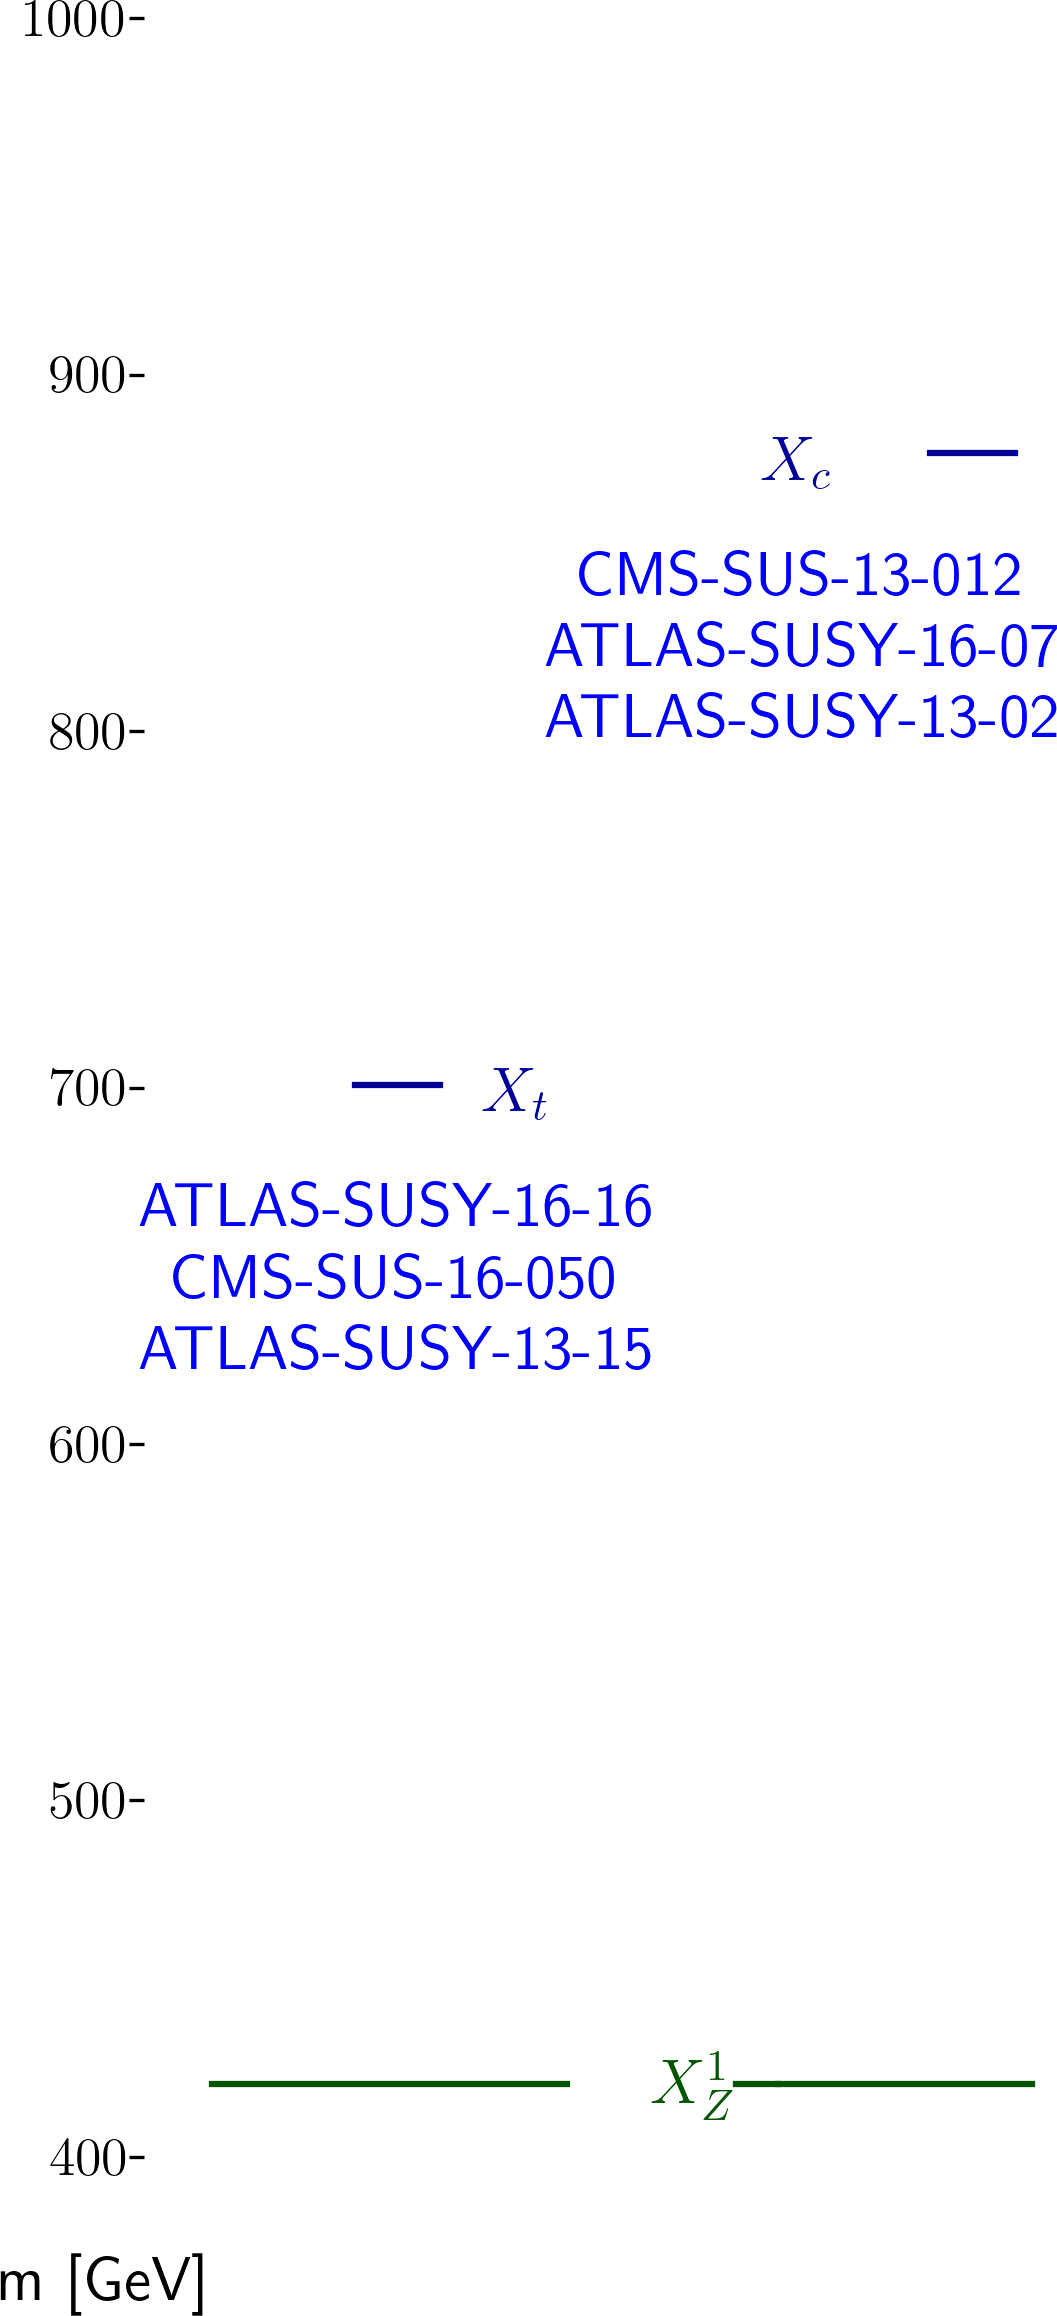
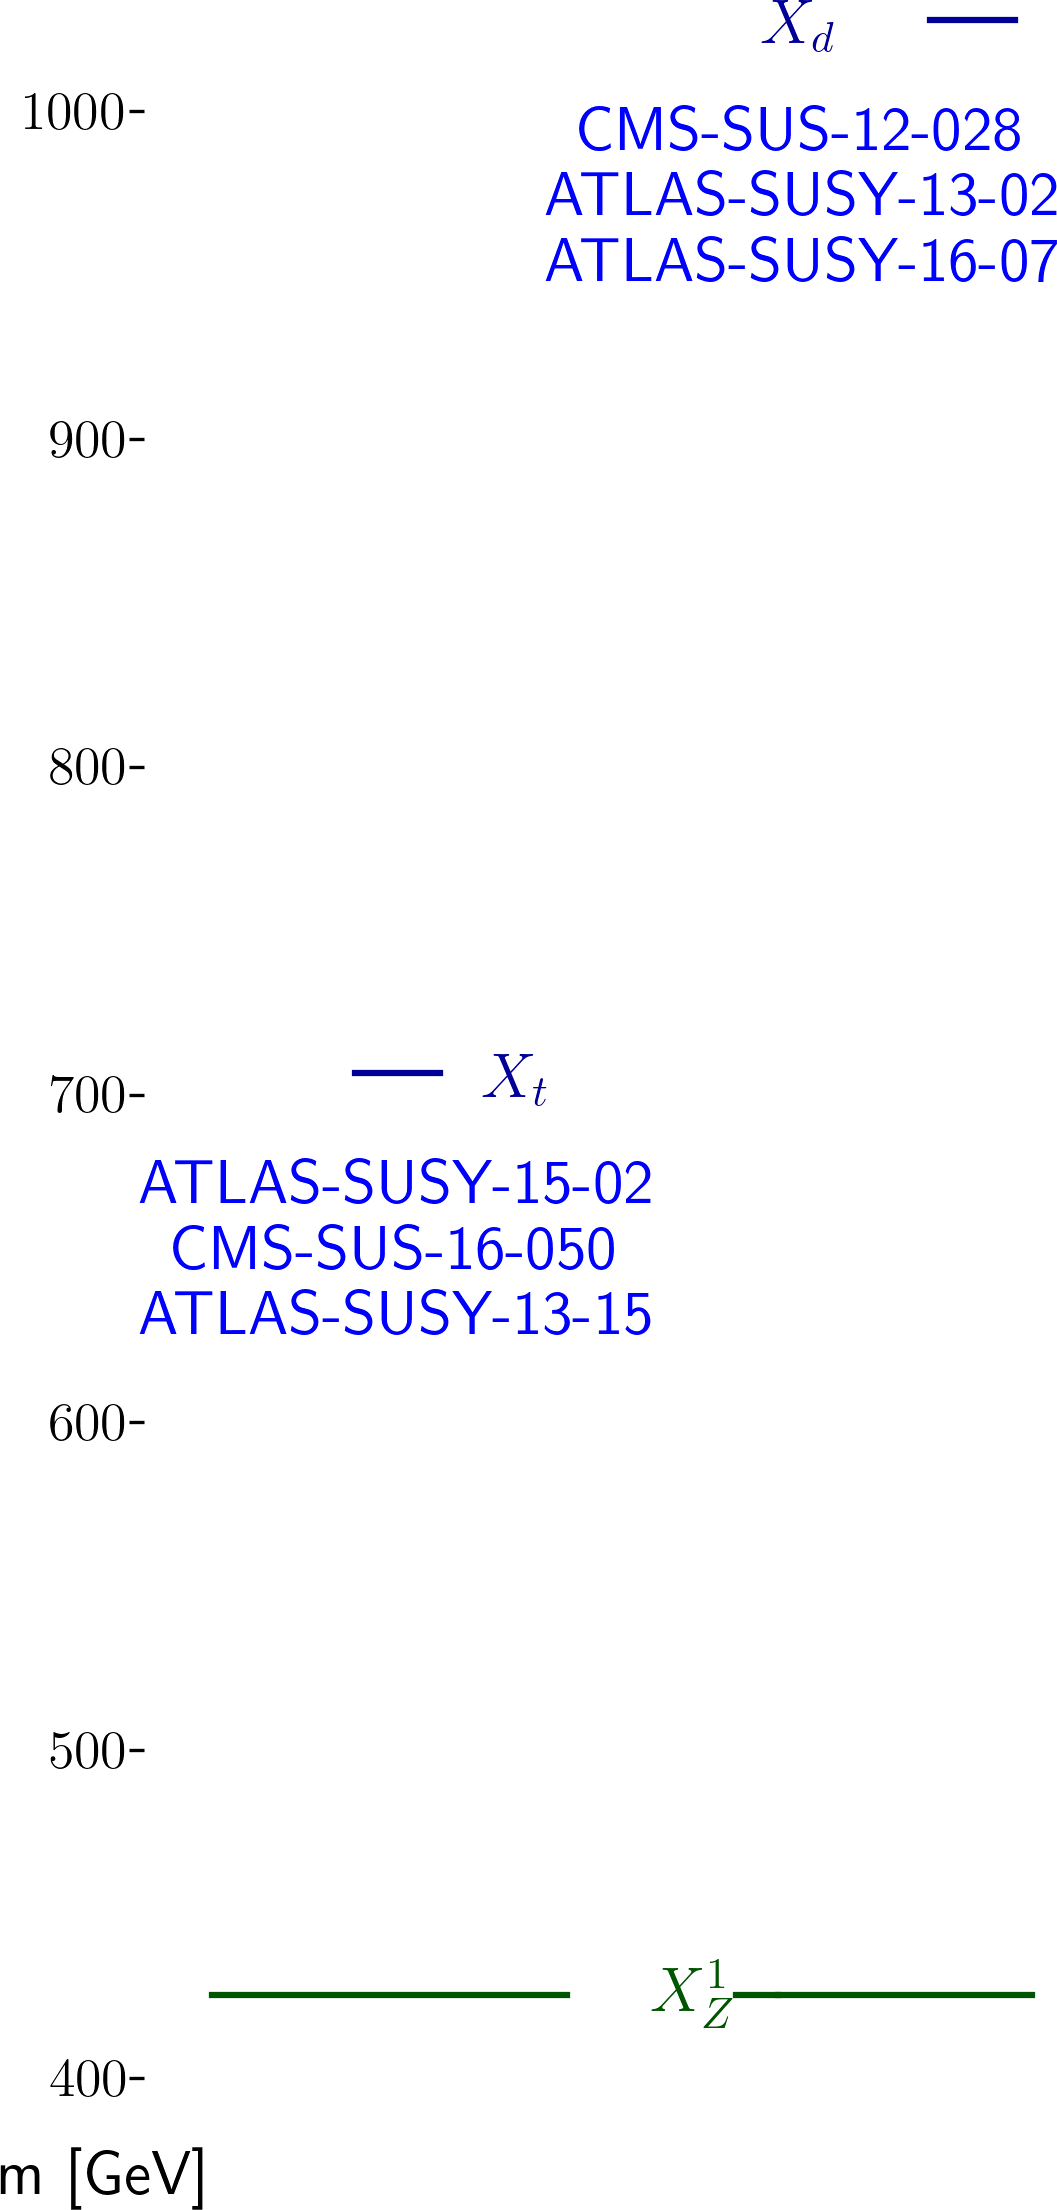
automated update by plotHiscore.py

diff --git a/protomodels/latest/index.html b/protomodels/latest/index.html
@@ -1,29 +1,31 @@
 <html>
 <body>
 <center>
-<table><td><h1>Current best protomodel: K=6.31</h1><td><img height=60px src=https://smodels.github.io/pics/banner.png></table>
+<table><td><h1>Current best protomodel: K=5.95</h1><td><img height=60px src=https://smodels.github.io/pics/banner.png></table>
 </center>
-<b><a href=./hiscore.slha>ProtoModel</a> <a href=./pmodel.py>(dict)</a> produced with <a href=https://smodels.github.io/docs/Validation124>database v1.2.4</a>, combination strategy <a href=./matrix_aggressive.png>aggressive</a> in walker 48 step 231.</b> K plots for: <a href=./M1000022.png?7428839>X<sub>Z</sub><sup>1</sup></a>, <a href=./M1000006.png?7428839>X<sub>t</sub></a>. HPD plots for: <a href=./llhd1000006.png?7428839>X<sub>t</sub></a>. SSM plots for: <a href=./ssm_-1000006_1000006.png?7428839>(x&#772;<sub>t</sub>,X<sub>t</sub>)</a><br>
+<b><a href=./hiscore.slha>ProtoModel</a> <a href=./pmodel.py>(dict)</a> produced with <a href=https://smodels.github.io/docs/Validation124>database v1.2.4</a>, combination strategy <a href=./matrix_aggressive.png>aggressive</a> in walker 38 step 507.</b> K plots for: <a href=./M1000022.png?7428845>X<sub>Z</sub><sup>1</sup></a>, <a href=./M1000001.png?7428845>X<sub>d</sub></a>, <a href=./M1000006.png?7428845>X<sub>t</sub></a>. HPD plots for: <a href=./llhd1000001.png?7428845>X<sub>d</sub></a>, <a href=./llhd1000006.png?7428845>X<sub>t</sub></a>. SSM plots for: <a href=./ssm_-1000006_1000006.png?7428845>(x&#772;<sub>t</sub>,X<sub>t</sub>)</a><br>
 <table width=80%>
 <tr><td>
-<br><b>34 predictions available. Highest r values are:</b><br><ul>
-<li><a href=http://cms-results.web.cern.ch/cms-results/public-results/publications/SUS-19-006/index.html>CMS-SUS-19-006</a>:T2tt r=1.30, r<sub>exp</sub>=0.82<br>
-<li><a href=http://cms-results.web.cern.ch/cms-results/public-results/publications/SUS-19-006/index.html>CMS-SUS-19-006</a>:T2 r=0.83, r<sub>exp</sub>=0.74<br>
-<li><a href=http://cms-results.web.cern.ch/cms-results/public-results/publications/SUS-16-033/index.html>CMS-SUS-16-033</a>:T2 r=0.82, r<sub>exp</sub>=0.56<br>
-<li><a href=http://cms-results.web.cern.ch/cms-results/public-results/publications/SUS-16-049/index.html>CMS-SUS-16-049</a>:T2tt r=0.73, r<sub>exp</sub>=0.67<br>
-<li><a href=http://cms-results.web.cern.ch/cms-results/public-results/publications/SUS-16-033/index.html>CMS-SUS-16-033</a>:T2tt r=0.68, r<sub>exp</sub>=0.50<br>
+<br><b>32 predictions available. Highest r values are:</b><br><ul>
+<li><a href=http://cms-results.web.cern.ch/cms-results/public-results/publications/SUS-19-006/index.html>CMS-SUS-19-006</a>:T2tt r=1.30, r<sub>exp</sub>=0.83<br>
+<li><a href=http://cms-results.web.cern.ch/cms-results/public-results/publications/SUS-19-006/index.html>CMS-SUS-19-006</a>:T2 r=1.00, r<sub>exp</sub>=0.87<br>
+<li><a href=http://cms-results.web.cern.ch/cms-results/public-results/publications/SUS-16-049/index.html>CMS-SUS-16-049</a>:T2tt r=0.78, r<sub>exp</sub>=0.69<br>
+<li><a href=http://cms-results.web.cern.ch/cms-results/public-results/publications/SUS-16-033/index.html>CMS-SUS-16-033</a>:T2 r=0.74, r<sub>exp</sub>=0.60<br>
+<li><a href=http://cms-results.web.cern.ch/cms-results/public-results/publications/SUS-16-036/index.html>CMS-SUS-16-036</a>:T2tt r=0.73, r<sub>exp</sub>=0.53<br>
 </ul>
 <td><br><b>K values without analyses: (contribution)</b><br>
 <ul>
-<li> <a href=https://twiki.cern.ch/twiki/bin/view/CMSPublic/PhysicsResultsSUS13012>CMS-SUS-13-012</a>: 6.50 (-3%)
-<li> <a href=>ATLAS-SUSY-2013-16</a>: 6.25 (1%)
-<li> <a href=https://atlas.web.cern.ch/Atlas/GROUPS/PHYSICS/PAPERS/SUSY-2016-16/>ATLAS-SUSY-2016-16</a>: 5.33 (14%)
-<li> <a href=http://cms-results.web.cern.ch/cms-results/public-results/publications/SUS-16-050/index.html>CMS-SUS-16-050</a>: 0.35 (88%)
-<td><img width=600px src=./texdoc.png?1600428839>
-<br><font size=-1>Last updated: Fri Sep 18 13:33:59 2020</font>
+<li> <a href=https://atlas.web.cern.ch/Atlas/GROUPS/PHYSICS/PAPERS/SUSY-2013-02/>ATLAS-SUSY-2013-02</a>: 12.36 (28%)
+<li> <a href=https://atlas.web.cern.ch/Atlas/GROUPS/PHYSICS/PAPERS/SUSY-2013-15/>ATLAS-SUSY-2013-15</a>: 11.89 (26%)
+<li> <a href=https://twiki.cern.ch/twiki/bin/view/CMSPublic/PhysicsResultsSUS12028>CMS-SUS-12-028</a>: 11.82 (26%)
+<li> <a href=http://atlas.web.cern.ch/Atlas/GROUPS/PHYSICS/PAPERS/SUSY-2015-02/>ATLAS-SUSY-2015-02</a>: 8.30 (10%)
+<li> <a href=https://atlas.web.cern.ch/Atlas/GROUPS/PHYSICS/PAPERS/SUSY-2016-07/>ATLAS-SUSY-2016-07</a>: 7.76 (8%)
+<li> <a href=http://cms-results.web.cern.ch/cms-results/public-results/publications/SUS-16-050/index.html>CMS-SUS-16-050</a>: 6.45 (2%)
+<td><img width=600px src=./texdoc.png?1600428845>
+<br><font size=-1>Last updated: Fri Sep 18 13:34:05 2020</font>
 </table><table style="width:80%">
-<td width=45%><img height=580px src=./ruler.png?1600428839><td width=55%><img height=380px src=./decays.png?1600428839>
-<font size=-3><iframe type="text/html" height="220px" width="100%s" frameborder="0" src="./rawnumbers.html?1600428839"></iframe></font>
+<td width=45%><img height=580px src=./ruler.png?1600428845><td width=55%><img height=380px src=./decays.png?1600428845>
+<font size=-3><iframe type="text/html" height="220px" width="100%s" frameborder="0" src="./rawnumbers.html?1600428845"></iframe></font>
 </table>
 </body>
 </html>

diff --git a/protomodels/latest/rawnumbers.html b/protomodels/latest/rawnumbers.html
@@ -1,10 +1,10 @@
 <table>
 <tr><th>Analysis Name</th><th>Type</th><th>Dataset</th><th>Topos</th><th>Observed</th><th>Expected</th><th>Approx &sigma;</th><th>Particles</th>
 </tr>
-<tr><td><a href=https://atlas.web.cern.ch/Atlas/GROUPS/PHYSICS/PAPERS/SUSY-2013-02/>ATLAS-SUSY-2013-02</a></td><td>em</td> <td>SR6jtp</td><td>T2</td><td>6</td><td>4.9 +/- 1.6</td><td style="text-align:right">0.4 &sigma;</td><td style="text-align:right">X<sub>c</sub></td></tr>
+<tr><td><a href=https://atlas.web.cern.ch/Atlas/GROUPS/PHYSICS/PAPERS/SUSY-2013-02/>ATLAS-SUSY-2013-02</a></td><td>em</td> <td>SR6jtp</td><td>T2</td><td>6</td><td>4.9 +/- 1.6</td><td style="text-align:right">0.4 &sigma;</td><td style="text-align:right">X<sub>d</sub></td></tr>
 <tr><td><a href=https://atlas.web.cern.ch/Atlas/GROUPS/PHYSICS/PAPERS/SUSY-2013-15/>ATLAS-SUSY-2013-15</a></td><td>em</td> <td>tNboost</td><td>T2tt</td><td>5</td><td>3.3 +/- 0.7</td><td style="text-align:right">0.9 &sigma;</td><td style="text-align:right">X<sub>t</sub></td></tr>
-<tr><td><a href=https://atlas.web.cern.ch/Atlas/GROUPS/PHYSICS/PAPERS/SUSY-2016-07/>ATLAS-SUSY-2016-07</a></td><td>em</td> <td>2j_Meff_1200</td><td>T2</td><td>611</td><td>526 +/- 31</td><td style="text-align:right">2.2 &sigma;</td><td style="text-align:right">X<sub>c</sub></td></tr>
-<tr><td><a href=https://atlas.web.cern.ch/Atlas/GROUPS/PHYSICS/PAPERS/SUSY-2016-16/>ATLAS-SUSY-2016-16</a></td><td>em</td> <td>tN_med</td><td>T2tt</td><td>50</td><td>36.3 +/- 6.6</td><td style="text-align:right">1.5 &sigma;</td><td style="text-align:right">X<sub>t</sub></td></tr>
-<tr><td><a href=https://twiki.cern.ch/twiki/bin/view/CMSPublic/PhysicsResultsSUS13012>CMS-SUS-13-012</a></td><td>ul</td> <td>-</td><td>T2</td><td> 36.1 fb </td><td> 21.7 fb</td><td style="text-align:right">1.3 &sigma;</td><td style="text-align:right">X<sub>c</sub></td></tr>
-<tr><td><a href=http://cms-results.web.cern.ch/cms-results/public-results/publications/SUS-16-050/index.html>CMS-SUS-16-050</a></td><td>ul</td> <td>-</td><td>T2tt</td><td> 170.7 fb </td><td> 78.6 fb</td><td style="text-align:right">2.3 &sigma;</td><td style="text-align:right">X<sub>t</sub></td></tr>
+<tr><td><a href=http://atlas.web.cern.ch/Atlas/GROUPS/PHYSICS/PAPERS/SUSY-2015-02/>ATLAS-SUSY-2015-02</a></td><td>em</td> <td>SR1</td><td>T2tt</td><td>12</td><td>5.5 +/- 0.72</td><td style="text-align:right">2.6 &sigma;</td><td style="text-align:right">X<sub>t</sub></td></tr>
+<tr><td><a href=https://atlas.web.cern.ch/Atlas/GROUPS/PHYSICS/PAPERS/SUSY-2016-07/>ATLAS-SUSY-2016-07</a></td><td>em</td> <td>2j_Meff_1200</td><td>T2</td><td>611</td><td>526 +/- 31</td><td style="text-align:right">2.2 &sigma;</td><td style="text-align:right">X<sub>d</sub></td></tr>
+<tr><td><a href=https://twiki.cern.ch/twiki/bin/view/CMSPublic/PhysicsResultsSUS12028>CMS-SUS-12-028</a></td><td>ul</td> <td>-</td><td>T2</td><td> 21.7 fb </td><td> 13.6 fb</td><td style="text-align:right">1.2 &sigma;</td><td style="text-align:right">X<sub>d</sub></td></tr>
+<tr><td><a href=http://cms-results.web.cern.ch/cms-results/public-results/publications/SUS-16-050/index.html>CMS-SUS-16-050</a></td><td>ul</td> <td>-</td><td>T2tt</td><td> 164.9 fb </td><td> 76.4 fb</td><td style="text-align:right">2.3 &sigma;</td><td style="text-align:right">X<sub>t</sub></td></tr>
 </table>

diff --git a/protomodels/latest/pmodel.py b/protomodels/latest/pmodel.py
@@ -1,1 +1,1 @@
-{'masses': {1000022: 410.436, 1000006: 690.835, 1000004: 867.978}, 'ssmultipliers': {(1000022, 1000022): 6.336, (1000006, 1000006): 0.594, (-1000006, 1000006): 0.594, (-1000006, -1000006): 0.508, (1000006, 1000022): 0.594, (-1000006, 1000022): 0.594, (1000004, 1000004): 1.0, (-1000004, 1000004): 1.0, (-1000004, -1000004): 1.0, (1000004, 1000022): 1.0, (-1000004, 1000022): 1.0, (1000004, 1000006): 1.0, (-1000004, 1000006): 1.0, (-1000006, 1000004): 1.143, (-1000006, -1000004): 1.0}, 'decays': {1000022: {}, 1000006: {1000022: 1.0}, 1000004: {1000022: 1.0}}, 'timestamp': 'Fri Sep 18 13:33:50 2020', 'Z': 3.135, 'K': 6.306, 'step': 231, 'codever': '1.0', 'dbver': '1.2.4'}
+{'masses': {1000022: 415.301, 1000006: 696.561, 1000001: 1017.868}, 'ssmultipliers': {(1000022, 1000022): 0.978, (1000006, 1000006): 0.625, (-1000006, 1000006): 0.625, (-1000006, -1000006): 0.625, (1000006, 1000022): 0.642, (-1000006, 1000022): 0.642, (1000001, 1000001): 1.471, (-1000001, 1000001): 1.47, (-1000001, -1000001): 1.471, (1000001, 1000022): 1.471, (-1000001, 1000022): 1.471, (1000001, 1000006): 1.212, (-1000001, 1000006): 1.212, (-1000006, 1000001): 1.212, (-1000006, -1000001): 1.212}, 'decays': {1000022: {}, 1000006: {1000022: 1.0}, 1000001: {1000022: 1.0}}, 'timestamp': 'Fri Sep 18 13:33:57 2020', 'Z': 3.122, 'K': 5.95, 'step': 507, 'codever': '1.0', 'dbver': '1.2.4'}
